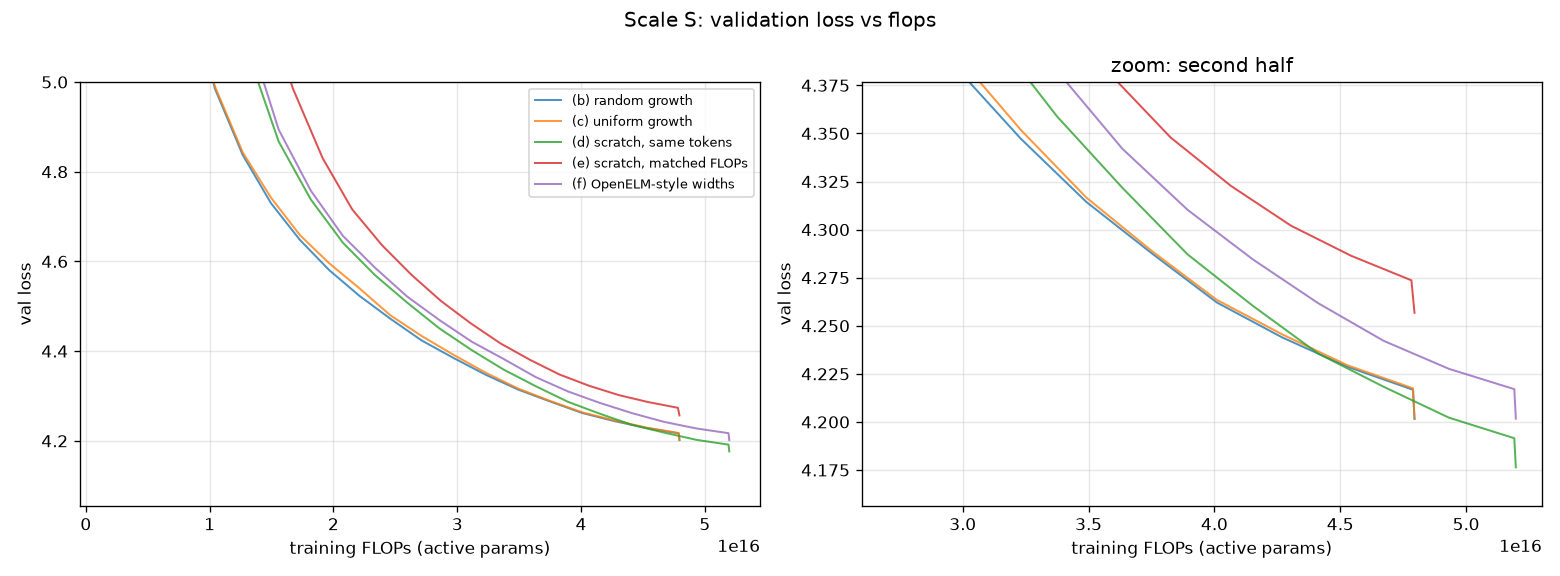
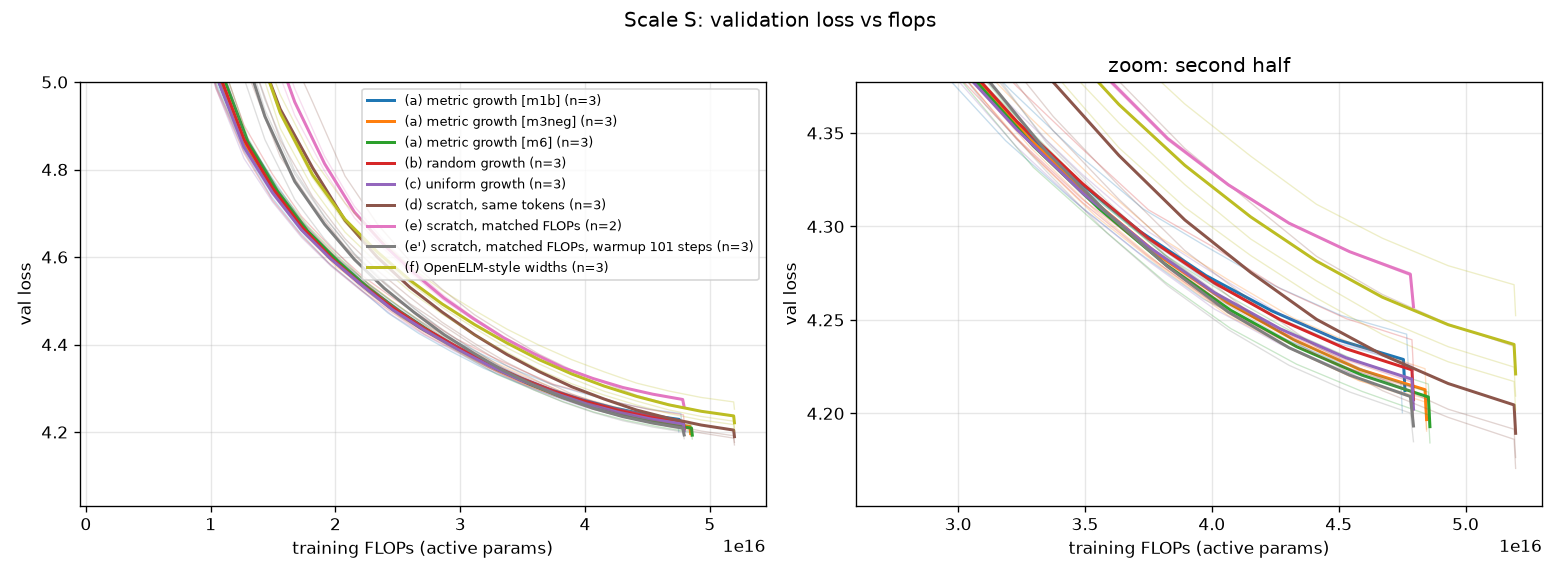
Stage 2 S results (3 seeds), plots

diff --git a/analysis/stage2.py b/analysis/stage2.py
@@ -79,12 +79,18 @@ def plots(rows, scale, out):
     for xcol, fname in (("tokens", "val_vs_tokens"), ("flops", "val_vs_flops")):
         fig, axes = plt.subplots(1, 2, figsize=(13, 4.8))
         for i, k in enumerate(keys):
+            dfs = []
             for r in [r for r in rs if r["key"] == k]:
                 df = pd.read_csv(os.path.join(r["dir"], "val_log.csv"))
-                df = df[df.step > 0]
+                df = df[df.step > 0].drop_duplicates("step", keep="last").set_index("step")
+                dfs.append(df)
                 for ax in axes:
-                    ax.plot(df[xcol], df.val_loss, color=cmap(i), alpha=0.8, lw=1.2,
-                            label=arm_label(k) if r["seed"] == min(x["seed"] for x in rs if x["key"] == k) else None)
+                    ax.plot(df[xcol], df.val_loss, color=cmap(i), alpha=0.25, lw=0.8)
+            common = sorted(set.intersection(*[set(d.index) for d in dfs]))
+            mx = np.mean([d.loc[common, xcol].values for d in dfs], 0)
+            my = np.mean([d.loc[common, "val_loss"].values for d in dfs], 0)
+            for ax in axes:
+                ax.plot(mx, my, color=cmap(i), lw=1.8, label=f"{arm_label(k)} (n={len(dfs)})")
         axes[0].set_ylim(None, 5.0)
         # zoom on the end of training
         allv = [pd.read_csv(os.path.join(r["dir"], "val_log.csv")).val_loss.iloc[-1] for r in rs]

diff --git a/results/stage2_tables.md b/results/stage2_tables.md
@@ -2,17 +2,41 @@
 
 | arm | seeds | final val loss (mean ± std) | per-seed | train FLOPs | metric s (total) | tokens/s | final heads / FFN per layer (seed 0) |
 |---|---|---|---|---|---|---|---|
-| (b) random growth | 1 | 4.2016 ± nan | 4.2016 | 4.795e+16 | 0 | 114998 | [5, 7, 6, 8, 3, 7] / [34, 23, 25, 21, 23, 18]×64 |
-| (c) uniform growth | 1 | 4.2020 ± nan | 4.2020 | 4.795e+16 | 0 | 115423 | [6, 6, 6, 6, 6, 6] / [24, 24, 24, 24, 24, 24]×64 |
-| (d) scratch, same tokens | 1 | 4.1764 ± nan | 4.1764 | 5.198e+16 | 0 | 213296 | [6, 6, 6, 6, 6, 6] / [24, 24, 24, 24, 24, 24]×64 |
-| (e) scratch, matched FLOPs | 1 | 4.2567 ± nan | 4.2567 | 4.795e+16 | 0 | 158962 | [6, 6, 6, 6, 6, 6] / [24, 24, 24, 24, 24, 24]×64 |
-| (f) OpenELM-style widths | 1 | 4.2017 ± nan | 4.2017 | 5.198e+16 | 0 | 128656 | [3, 4, 5, 7, 8, 9] / [12, 17, 22, 26, 31, 36]×64 |
+| (a) metric growth [m1b] | 3 | 4.2122 ± 0.0126 | 4.2004, 4.2255, 4.2107 | 4.761e+16 | 24 | 163214 | [9, 9, 5, 5, 5, 3] / [22, 29, 26, 23, 24, 20]×64 |
+| (a) metric growth [m3neg] | 3 | 4.1967 ± 0.0097 | 4.1905, 4.2079, 4.1916 | 4.847e+16 | 107 | 156778 | [3, 7, 7, 7, 5, 7] / [22, 22, 24, 23, 27, 26]×64 |
+| (a) metric growth [m6] | 3 | 4.1929 ± 0.0078 | 4.1842, 4.1994, 4.1951 | 4.860e+16 | 62 | 159195 | [10, 4, 6, 5, 7, 4] / [41, 22, 19, 21, 21, 20]×64 |
+| (b) random growth | 3 | 4.2073 ± 0.0134 | 4.2016, 4.2226, 4.1977 | 4.795e+16 | 0 | 131250 | [5, 7, 6, 8, 3, 7] / [34, 23, 25, 21, 23, 18]×64 |
+| (c) uniform growth | 3 | 4.2023 ± 0.0075 | 4.2020, 4.2099, 4.1950 | 4.795e+16 | 0 | 131516 | [6, 6, 6, 6, 6, 6] / [24, 24, 24, 24, 24, 24]×64 |
+| (d) scratch, same tokens | 3 | 4.1893 ± 0.0276 | 4.1764, 4.1706, 4.2210 | 5.198e+16 | 0 | 216091 | [6, 6, 6, 6, 6, 6] / [24, 24, 24, 24, 24, 24]×64 |
+| (e) scratch, matched FLOPs | 2 | 4.2570 ± 0.0004 | 4.2567, 4.2573 | 4.795e+16 | 0 | 189498 | [6, 6, 6, 6, 6, 6] / [24, 24, 24, 24, 24, 24]×64 |
+| (e') scratch, matched FLOPs, warmup 101 steps | 3 | 4.1933 ± 0.0074 | 4.1962, 4.1987, 4.1849 | 4.795e+16 | 0 | 214484 | [6, 6, 6, 6, 6, 6] / [24, 24, 24, 24, 24, 24]×64 |
+| (f) OpenELM-style widths | 3 | 4.2211 ± 0.0273 | 4.2017, 4.2093, 4.2523 | 5.198e+16 | 0 | 185781 | [3, 4, 5, 7, 8, 9] / [12, 17, 22, 26, 31, 36]×64 |
 
 Paired differences (same seed = same data order; negative = first arm better):
 
 | comparison | n | mean ± std | per seed |
 |---|---|---|---|
-| (b) random growth − (c) uniform growth | 1 | -0.0004 ± nan | -0.0004 |
-| (c) uniform growth − (d) scratch, same tokens | 1 | +0.0256 ± nan | +0.0256 |
-| (c) uniform growth − (e) scratch, matched FLOPs | 1 | -0.0548 ± nan | -0.0548 |
-| (f) OpenELM-style widths − (d) scratch, same tokens | 1 | +0.0253 ± nan | +0.0253 |
+| (a) metric growth [m1b] − (b) random growth | 3 | +0.0049 ± 0.0073 | -0.0012, +0.0029, +0.0130 |
+| (a) metric growth [m1b] − (c) uniform growth | 3 | +0.0099 ± 0.0099 | -0.0016, +0.0156, +0.0157 |
+| (a) metric growth [m1b] − (d) scratch, same tokens | 3 | +0.0229 ± 0.0326 | +0.0240, +0.0549, -0.0103 |
+| (a) metric growth [m1b] − (e) scratch, matched FLOPs | 2 | -0.0441 ± 0.0174 | -0.0564, -0.0318 |
+| (a) metric growth [m1b] − (e') scratch, matched FLOPs, warmup 101 steps | 3 | +0.0189 ± 0.0128 | +0.0042, +0.0268, +0.0259 |
+| (a) metric growth [m1b] − (f) OpenELM-style widths | 3 | -0.0089 ± 0.0296 | -0.0013, +0.0162, -0.0416 |
+| (a) metric growth [m3neg] − (b) random growth | 3 | -0.0106 ± 0.0043 | -0.0110, -0.0148, -0.0061 |
+| (a) metric growth [m3neg] − (c) uniform growth | 3 | -0.0056 ± 0.0051 | -0.0114, -0.0020, -0.0034 |
+| (a) metric growth [m3neg] − (d) scratch, same tokens | 3 | +0.0073 ± 0.0339 | +0.0141, +0.0373, -0.0294 |
+| (a) metric growth [m3neg] − (e) scratch, matched FLOPs | 2 | -0.0578 ± 0.0119 | -0.0662, -0.0494 |
+| (a) metric growth [m3neg] − (e') scratch, matched FLOPs, warmup 101 steps | 3 | +0.0034 ± 0.0080 | -0.0057, +0.0092, +0.0068 |
+| (a) metric growth [m3neg] − (f) OpenELM-style widths | 3 | -0.0244 ± 0.0318 | -0.0112, -0.0014, -0.0607 |
+| (a) metric growth [m6] − (b) random growth | 3 | -0.0144 ± 0.0106 | -0.0173, -0.0233, -0.0026 |
+| (a) metric growth [m6] − (c) uniform growth | 3 | -0.0094 ± 0.0090 | -0.0177, -0.0106, +0.0001 |
+| (a) metric growth [m6] − (d) scratch, same tokens | 3 | +0.0036 ± 0.0276 | +0.0078, +0.0288, -0.0259 |
+| (a) metric growth [m6] − (e) scratch, matched FLOPs | 2 | -0.0652 ± 0.0103 | -0.0725, -0.0579 |
+| (a) metric growth [m6] − (e') scratch, matched FLOPs, warmup 101 steps | 3 | -0.0004 ± 0.0111 | -0.0120, +0.0007, +0.0103 |
+| (a) metric growth [m6] − (f) OpenELM-style widths | 3 | -0.0282 ± 0.0254 | -0.0175, -0.0099, -0.0572 |
+| (b) random growth − (c) uniform growth | 3 | +0.0050 ± 0.0068 | -0.0004, +0.0127, +0.0027 |
+| (c) uniform growth − (d) scratch, same tokens | 3 | +0.0130 ± 0.0345 | +0.0256, +0.0394, -0.0261 |
+| (c) uniform growth − (e) scratch, matched FLOPs | 2 | -0.0511 ± 0.0052 | -0.0548, -0.0474 |
+| (c) uniform growth − (e') scratch, matched FLOPs, warmup 101 steps | 3 | +0.0090 ± 0.0029 | +0.0058, +0.0112, +0.0101 |
+| (e') scratch, matched FLOPs, warmup 101 steps − (e) scratch, matched FLOPs | 2 | -0.0596 ± 0.0014 | -0.0605, -0.0586 |
+| (f) OpenELM-style widths − (d) scratch, same tokens | 3 | +0.0318 ± 0.0067 | +0.0253, +0.0387, +0.0313 |

diff --git a/STATUS.md b/STATUS.md
@@ -35,3 +35,4 @@
 - 04:10 Interim: arm (e) matched-FLOPs scratch is 0.08 worse than (d) in both seeds, from the first ~200 steps (grad norm 0.35 vs 0.25); only difference is warmup 93 vs 101 steps + 8% fewer steps → LR-edge sensitivity. Queued diagnostic (e') with warmup fixed at 101 steps, seeds 0–1, at the front of the queue.
 - 04:20 Diagnostic (e') at step 702: val 4.936 vs (e) 5.183 vs (d) ≈4.95 → the (e) deficit is a warmup/LR-edge artifact; (e') is the valid matched-FLOPs baseline. Added (e') seed 2.
 - 04:55 S progress: M1b 3 seeds, M6 3 seeds, e' 2 seeds done; seed 2 b/c/d/f and −M3 ×3 running/pending; M next.
+- 05:45 All protocol S runs done (3 seeds; (e) 2 seeds) + exploratory −M3 ×3 + (e′) ×3. M running (scratch, uniform, M1b first; then M6, random, −M3, e). Seed 3 for M6/uniform/e′ queued behind M.
